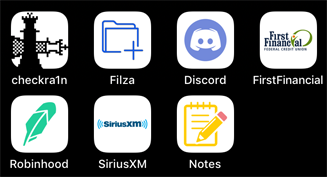
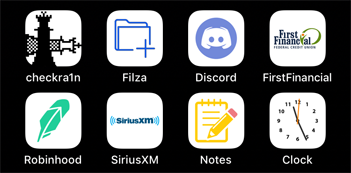
Update Stocker Screener
Update Stocker screenshot & webpage to include the clock icon

diff --git a/resources/Stocker13.html b/resources/Stocker13.html
@@ -17,9 +17,9 @@ body,td,th {
 }
 body {
 	background-color: #FFF;
-	margin-left: .25in;
+	margin-left: .125in;
 	margin-top: .5in;
-	margin-right: .25in;
+	margin-right: .125in;
 	margin-bottom: .5in;
 }
 .text2 {
@@ -40,7 +40,7 @@ body {
 <p align="center">I aim to fix this with Stocker13!</p>
 <p align="center"><u>Please Note:</u></p>
 <p align="center">It may be necessary in order to properly theme the clock icon, or if you do not wish to use a certain icon from this, or any theme, or if you would like to use any other app's icon for a specific app, put the home screen in edit (wiggle) mode &amp; double-tap the icon you wish to change. Then pick whatever icon you'd like to use for that app from the Snowboard alternate icon menu (swipe pages to use icons from other themes or apps you have installed, or to use images from your camera roll).</p>
-<p align="center" class="text2"><img src="https://isteve-o.github.io/resources/Stocker13.png" width="327px" height="177px" alt="Stocker13 Screen Shot" longdesc="https://isteve-o.github.io/resources/Stocker13.png" /></p>
+<p align="center" class="text2"><img src="https://isteve-o.github.io/resources/Stocker13.png" width="351px" height="173px" alt="Stocker13 Screen Shot" longdesc="https://isteve-o.github.io/resources/Stocker13.png" /></p>
 <p align="center">Follow me on Twitter: <a href="https://twitter.com/isteve_o/">@iSteve-O</a></p>
 <p>&nbsp;</p>
 <p align="center" class="text3">iSteve-O</p>
